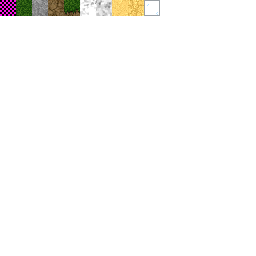
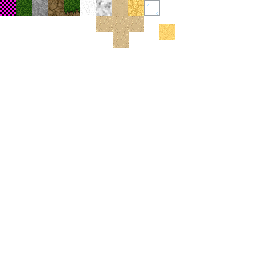
Better Textures + Window Resizes

Changed region(s): [[0.375, 0.0, 0.5625, 0.1875], [0.5938, 0.0938, 0.6875, 0.1562], [0.3125, 0.0, 0.375, 0.0625]]

diff --git a/Cosmos/src/com/cornchipss/rendering/PlanetRenderer.java b/Cosmos/src/com/cornchipss/rendering/PlanetRenderer.java
@@ -13,6 +13,7 @@ import org.lwjgl.opengl.GL33;
 
 import com.cornchipss.rendering.shaders.PlanetShader;
 import com.cornchipss.utils.datatypes.Vector3fList;
+import com.cornchipss.world.entities.Player;
 import com.cornchipss.world.planet.Planet;
 
 public class PlanetRenderer extends Renderer
@@ -65,7 +66,7 @@ public class PlanetRenderer extends Renderer
 		atlas.bind();
 	}
 	
-	public void render(Planet planet)
+	public void render(Planet planet, Player player)
 	{
 		if(planet == null)
 			throw new IllegalArgumentException("Cannot render a null planet!");
@@ -89,29 +90,52 @@ public class PlanetRenderer extends Renderer
 					renderModel(m, modelsAndPositions.get(m));
 			}
 			
-			GL11.glEnable(GL11.GL_CULL_FACE); 
-			GL11.glCullFace(GL11.GL_FRONT);
-//			
-//			GL11.glEnable(GL30.GL_SAMPLE_ALPHA_TO_COVERAGE);
-//			
 //			GL11.glEnable(GL11.GL_BLEND);
-//			GL11.glAlphaFunc(GL11.GL_GREATER, 0.05f);
 //			GL11.glBlendFunc(GL11.GL_SRC_ALPHA, GL11.GL_ONE_MINUS_SRC_ALPHA);
 			
 			for(Model m : transparentModels)
 			{
-				GL11.glEnable(GL11.GL_BLEND);
-				GL11.glBlendFunc(GL11.GL_SRC_ALPHA, GL11.GL_ONE_MINUS_SRC_ALPHA);
+				// TODO:
 				
-				renderModel(m, modelsAndPositions.get(m));
+//				Vector3fc[] vecs = modelsAndPositions.get(m).asVecs();
+//				
+//				final Vector3fc pos = new Vector3f(player.getPosition());
+//				
+//				Arrays.sort(vecs, new Comparator<Vector3fc>()
+//				{
+//					@Override
+//					public int compare(Vector3fc o1, Vector3fc o2)
+//					{
+////						Utils.println(Utils.toString(o1) + ", " + Utils.toString(o2));
+//						
+//						float d1 = o1.distanceSquared(pos);
+//						float d2 = o2.distanceSquared(pos);
+//						
+//						if(d1 < d2)
+//							return 1;
+//						if(d1 > d2)
+//							return -1;
+//						return 0;
+//					}
+//				});
+//				
+//				float[] floats = new float[vecs.length * 3];
+//				for(int i = 0; i < vecs.length; i++)
+//				{
+//					floats[i * 3] = vecs[i].x();
+//					floats[i * 3 + 1] = vecs[i].y();
+//					floats[i * 3 + 2] = vecs[i].z();
+//				}
 				
-				GL11.glDisable(GL11.GL_BLEND);
-			}
-			
-			GL11.glCullFace(GL11.GL_BACK);
-			for(Model m : transparentModels)
-			{
-				renderModel(m, modelsAndPositions.get(m));
+				float[] floats = modelsAndPositions.get(m).asFloats();
+				
+				GL11.glCullFace(GL11.GL_FRONT);
+				
+				renderModel(m, floats);
+				
+				GL11.glCullFace(GL11.GL_BACK);
+				
+				renderModel(m, floats);
 			}
 			
 			GL11.glDisable(GL11.GL_BLEND);
@@ -120,8 +144,11 @@ public class PlanetRenderer extends Renderer
 	
 	private void renderModel(Model m, Vector3fList posList)
 	{
-		float[] positions = posList.asFloats();
-		
+		renderModel(m, posList.asFloats());
+	}
+	
+	private void renderModel(Model m, float[] positions)
+	{
 		GL30.glBindVertexArray(m.getVao());
 		
 		// Update every position in the model
@@ -139,7 +166,7 @@ public class PlanetRenderer extends Renderer
 		GL30.glEnableVertexAttribArray(2);
 		GL30.glEnableVertexAttribArray(3);
 		
-		GL31.glDrawElementsInstanced(GL30.GL_TRIANGLES, m.getVertexCount(), GL11.GL_UNSIGNED_INT, 0, posList.size() / 3);
+		GL31.glDrawElementsInstanced(GL30.GL_TRIANGLES, m.getVertexCount(), GL11.GL_UNSIGNED_INT, 0, positions.length / 3);
 		
 		GL33.glDisableVertexAttribArray(3);
 		GL30.glDisableVertexAttribArray(2);

diff --git a/Cosmos/src/com/cornchipss/rendering/Window.java b/Cosmos/src/com/cornchipss/rendering/Window.java
@@ -18,19 +18,28 @@ import static org.lwjgl.glfw.GLFW.glfwWindowHint;
 import static org.lwjgl.glfw.GLFW.glfwWindowShouldClose;
 import static org.lwjgl.system.MemoryUtil.NULL;
 
+import org.lwjgl.glfw.GLFW;
 import org.lwjgl.glfw.GLFWErrorCallback;
+import org.lwjgl.glfw.GLFWWindowSizeCallbackI;
 import org.lwjgl.opengl.GL;
 import org.lwjgl.opengl.GL11;
+import org.lwjgl.opengl.GL20;
+
+import com.cornchipss.utils.Utils;
 
 public class Window
 {
 	private static long window;
 	private int width, height;
 	
+	private final float ogAspectRatio;
+	
 	public Window(int w, int h, String title)
 	{
 		this.width = w;
 		this.height = h;
+		
+		ogAspectRatio = width / (float)height;
 		
 		// Setup an error callback. The default implementation
 		// will print the error message in System.err.
@@ -52,6 +61,28 @@ public class Window
 		
 		// Make the OpenGL context current
 		glfwMakeContextCurrent(window);
+		
+		GLFW.glfwSetWindowSizeCallback(window, new GLFWWindowSizeCallbackI()
+		{
+			@Override
+			public void invoke(long window, int width, int height)
+			{
+				int dX = 0, dY = 0;
+				
+				if(width / (float)height > ogAspectRatio)
+				{
+					float desiredHeight = (width / ogAspectRatio);
+					dY = -Math.round((desiredHeight - height) / 2);
+				}
+				else
+				{
+					float desiredWidth = (height * ogAspectRatio);
+					dX = -Math.round((desiredWidth - width) / 2);
+				}
+				
+				GL20.glViewport(dX, dY, width - dX, height - dY);
+			}
+		});
 		
 		// Make the window visible
 		glfwShowWindow(window);

diff --git a/Cosmos/src/com/cornchipss/utils/datatypes/Vector3fList.java b/Cosmos/src/com/cornchipss/utils/datatypes/Vector3fList.java
@@ -10,7 +10,7 @@ public class Vector3fList
 {
 	private ArrayListF floats;
 	private Map<Vector3fc, Integer> indicies = new HashMap<>();
-	
+		
 	/**
 	 * A list of vectors also stored as an array of floats that supports constant time additions/deletions of vectors
 	 */
@@ -99,6 +99,16 @@ public class Vector3fList
 	public float[] asFloats()
 	{
 		return floats.getArray();
+	}
+	
+	public Vector3fc[] asVecs()
+	{
+		Vector3fc[] vecs = new Vector3fc[floats.size() / 3];
+		for(int i = 0; i < floats.size(); i+=3)
+		{
+			vecs[i / 3] = new Vector3f(floats.get(i), floats.get(i + 1), floats.get(i + 2));
+		}
+		return vecs;
 	}
 	
 	/**

diff --git a/Cosmos/src/com/cornchipss/registry/Biospheres.java b/Cosmos/src/com/cornchipss/registry/Biospheres.java
@@ -50,9 +50,9 @@ public class Biospheres
 	{
 		try
 		{
-			return biospheres.get(id).newInstance();
+			return biospheres.get(id).getDeclaredConstructor().newInstance();
 		}
-		catch (InstantiationException | IllegalAccessException e)
+		catch (Exception e)
 		{
 			throw new RuntimeException(e);
 		}

diff --git a/Cosmos/src/com/cornchipss/world/sector/Sector.java b/Cosmos/src/com/cornchipss/world/sector/Sector.java
@@ -347,7 +347,7 @@ public class Sector
 					{
 						long mils = System.currentTimeMillis();
 						
-						renderer.render(getPlanet(x, y, z));
+						renderer.render(getPlanet(x, y, z), player);
 						
 						long time = System.currentTimeMillis() - mils;
 						if(time > 16)
